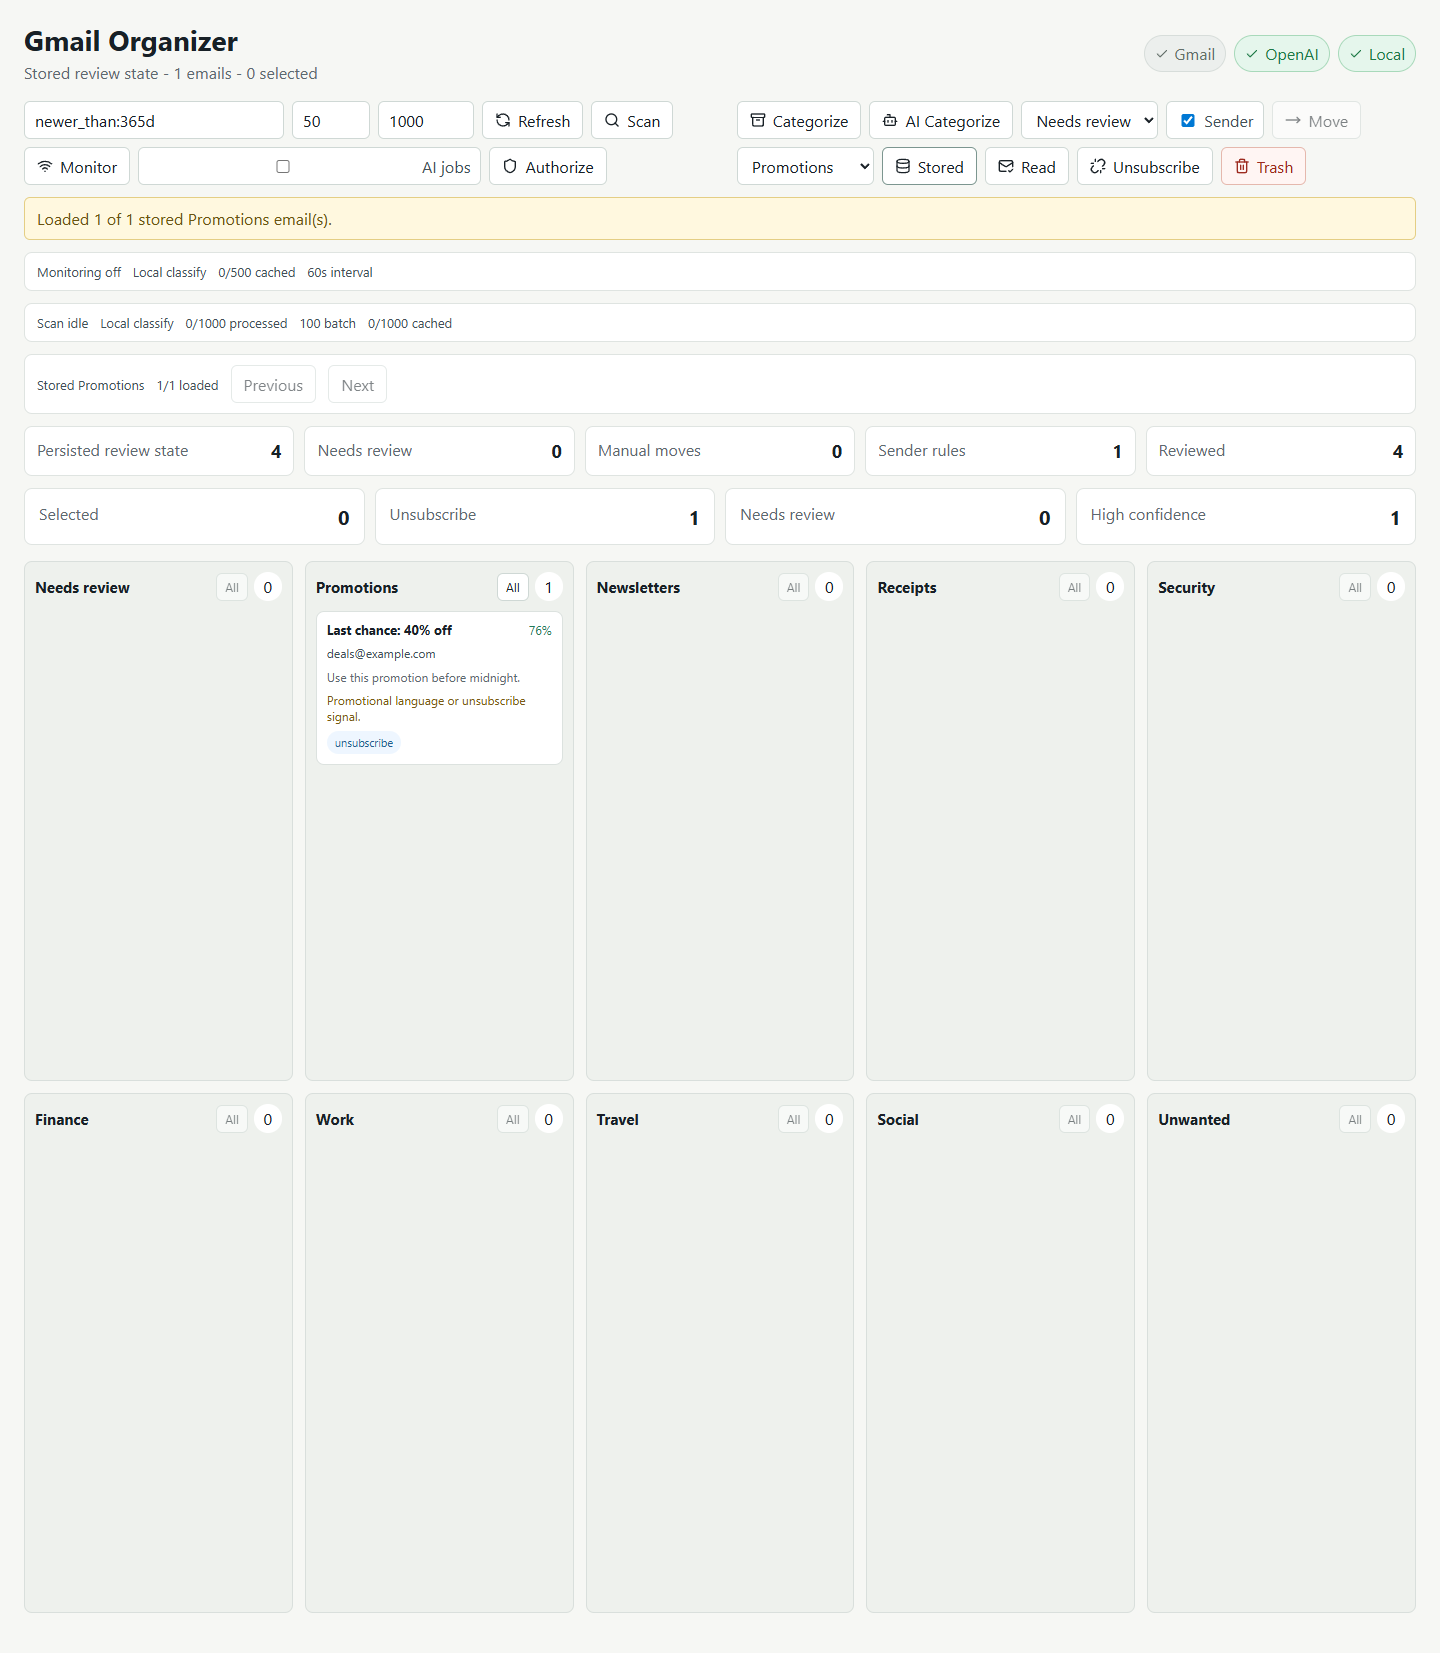
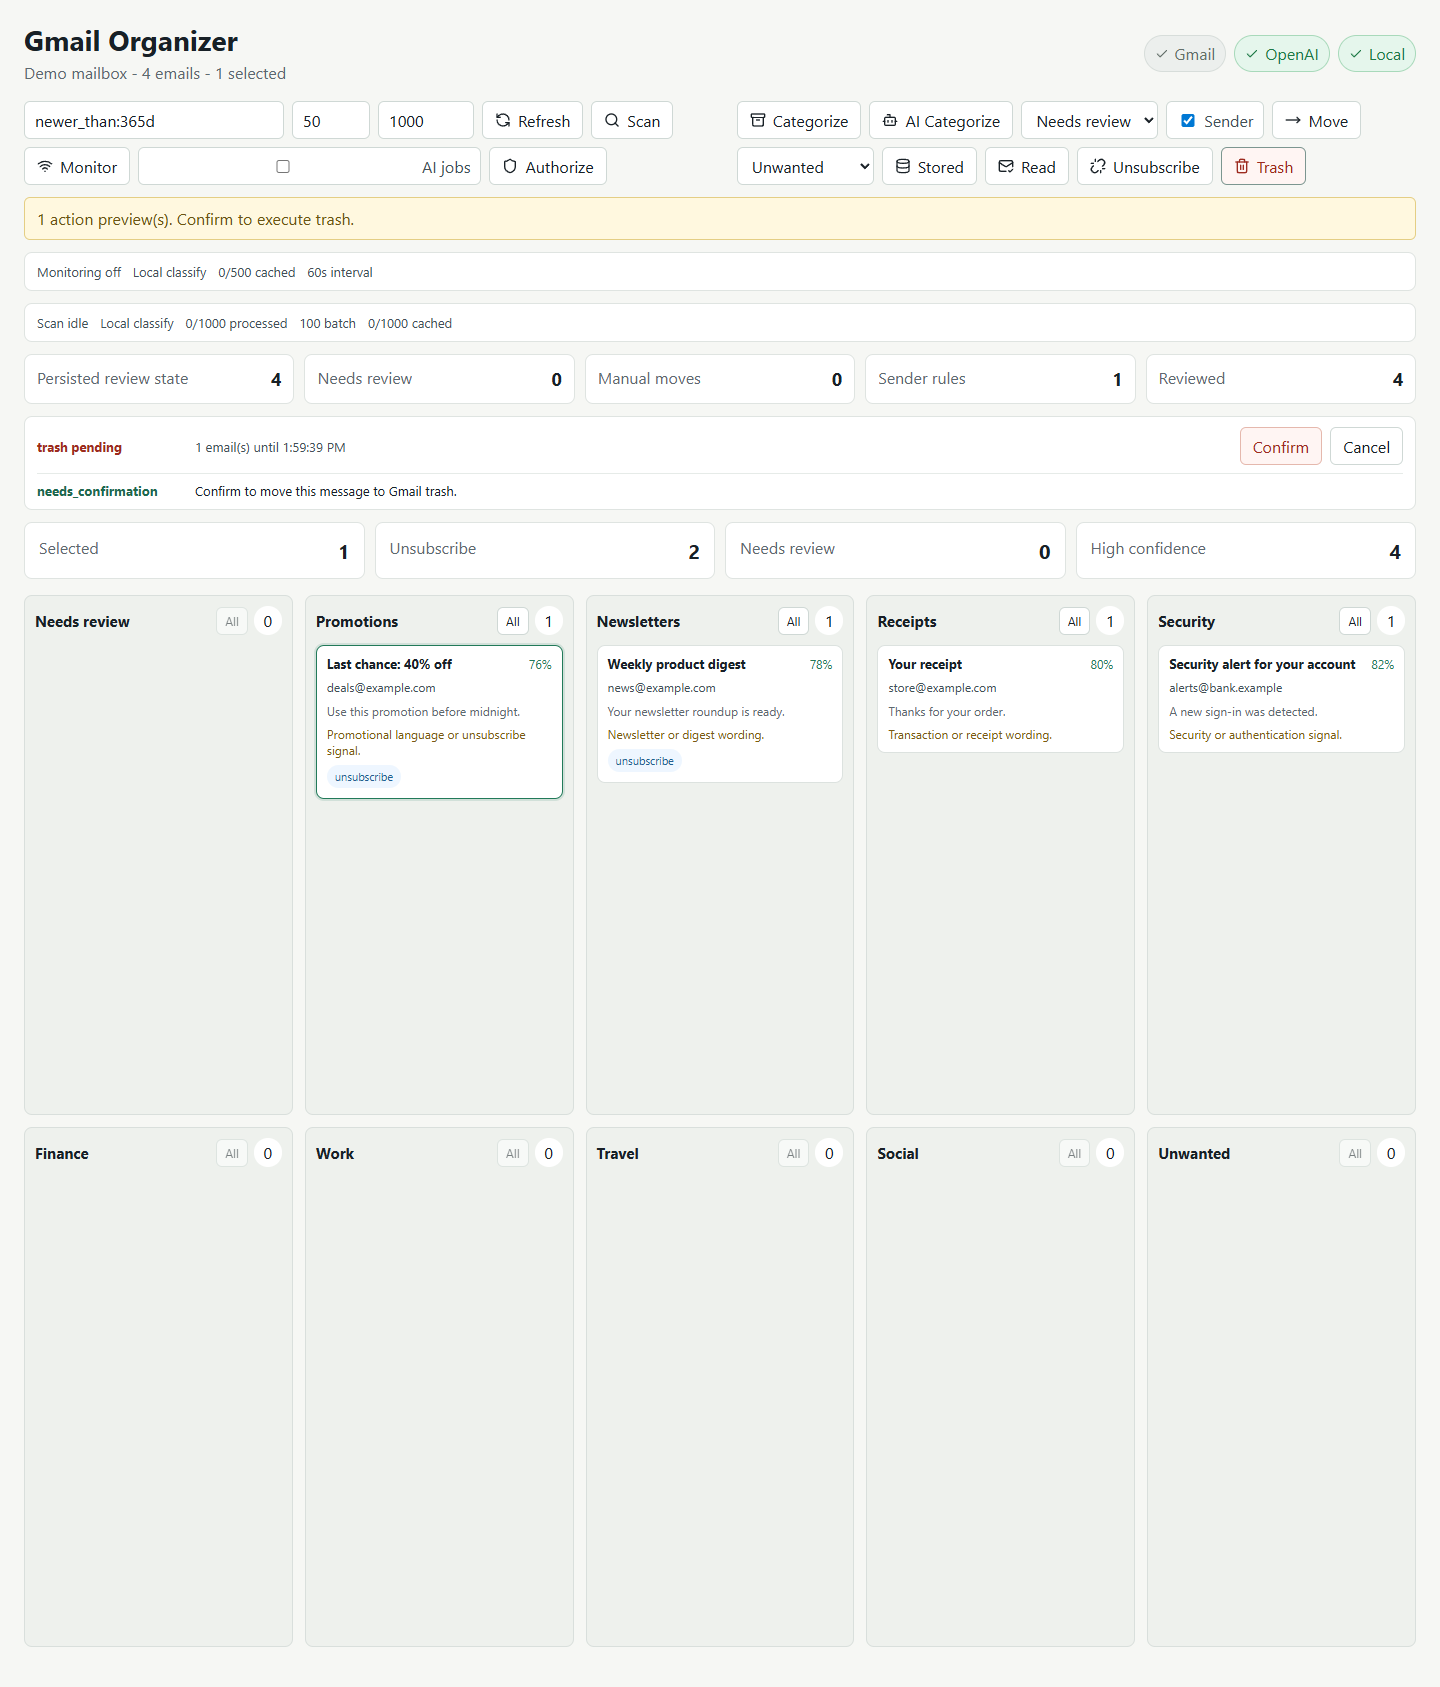
Require tokens for destructive confirmations

diff --git a/web/src/main.tsx b/web/src/main.tsx
@@ -21,6 +21,8 @@ const categories: { id: Category; label: string }[] = [
 type PendingAction = {
   action: "trash" | "unsubscribe";
   ids: string[];
+  confirmationToken: string;
+  confirmationExpiresAt?: string;
 };
 
 function App() {
@@ -206,10 +208,13 @@ function App() {
     setPendingAction(null);
     setBusy(true);
     try {
-      const result = await runAction(action, ids, action === "mark_read");
+      const result = await runAction(action, ids);
       setActionResults(result.results);
       if (result.requiresConfirmation && (action === "trash" || action === "unsubscribe")) {
-        setPendingAction({ action, ids });
+        if (!result.confirmationToken) {
+          throw new Error("Server did not return a confirmation token.");
+        }
+        setPendingAction({ action, ids, confirmationToken: result.confirmationToken, confirmationExpiresAt: result.confirmationExpiresAt });
         setNotice(`${result.results.length} action preview(s). Confirm to execute ${actionLabel(action)}.`);
       } else {
         finishAction(action, result.results);
@@ -227,7 +232,7 @@ function App() {
     }
     setBusy(true);
     try {
-      const result = await runAction(pendingAction.action, pendingAction.ids, true);
+      const result = await runAction(pendingAction.action, pendingAction.ids, pendingAction.confirmationToken);
       setActionResults(result.results);
       finishAction(pendingAction.action, result.results);
       setPendingAction(null);
@@ -405,7 +410,7 @@ function App() {
           {pendingAction && (
             <div className="confirm-row">
               <strong>{actionLabel(pendingAction.action)} pending</strong>
-              <span>{pendingAction.ids.length} email(s)</span>
+              <span>{pendingAction.ids.length} email(s){pendingAction.confirmationExpiresAt ? ` until ${new Date(pendingAction.confirmationExpiresAt).toLocaleTimeString()}` : ""}</span>
               <button className="danger" onClick={confirmPendingAction} disabled={busy}>Confirm</button>
               <button onClick={cancelPendingAction} disabled={busy}>Cancel</button>
             </div>

diff --git a/web/src/api.ts b/web/src/api.ts
@@ -1,4 +1,4 @@
-import type { ActionResult, AppConfig, Category, EmailSummary, MonitorStatus, ReviewEmailPage, ReviewStats, ScanStatus } from "./types";
+import type { ActionResponse, AppConfig, Category, EmailSummary, MonitorStatus, ReviewEmailPage, ReviewStats, ScanStatus } from "./types";
 
 async function request<T>(url: string, init?: RequestInit): Promise<T> {
   const response = await fetch(url, {
@@ -36,10 +36,10 @@ export async function updateCategories(ids: string[], category: string, applySen
   });
 }
 
-export async function runAction(action: "trash" | "mark_read" | "unsubscribe", ids: string[], confirm = false) {
-  return request<{ results: ActionResult[]; requiresConfirmation: boolean }>("/api/actions", {
+export async function runAction(action: "trash" | "mark_read" | "unsubscribe", ids: string[], confirmationToken = "") {
+  return request<ActionResponse>("/api/actions", {
     method: "POST",
-    body: JSON.stringify({ action, ids, confirm })
+    body: JSON.stringify({ action, ids, confirmationToken })
   });
 }
 

diff --git a/web/src/types.ts b/web/src/types.ts
@@ -92,3 +92,10 @@ export type ActionResult = {
   message?: string;
   safeLink?: string;
 };
+
+export type ActionResponse = {
+  results: ActionResult[];
+  requiresConfirmation: boolean;
+  confirmationToken?: string;
+  confirmationExpiresAt?: string;
+};

diff --git a/internal/app/server.go b/internal/app/server.go
@@ -27,17 +27,27 @@ import (
 )
 
 type Server struct {
-	cfg        config.Config
-	gmail      *gmail.Service
-	heuristic  classifier.Classifier
-	ai         classifier.Classifier
-	store      *store.ReviewStore
-	monitor    *monitor.Service
-	scan       *scan.Service
-	lastEmails []domain.EmailSummary
-	state      string
-	mu         sync.RWMutex
+	cfg           config.Config
+	gmail         *gmail.Service
+	heuristic     classifier.Classifier
+	ai            classifier.Classifier
+	store         *store.ReviewStore
+	monitor       *monitor.Service
+	scan          *scan.Service
+	lastEmails    []domain.EmailSummary
+	state         string
+	confirmations map[string]pendingConfirmation
+	mu            sync.RWMutex
+	confirmMu     sync.Mutex
 }
+
+type pendingConfirmation struct {
+	Action    domain.BulkAction
+	IDs       []string
+	ExpiresAt time.Time
+}
+
+const confirmationTTL = 10 * time.Minute
 
 func NewServer(cfg config.Config) (*Server, error) {
 	googleSecret := secrets.FileSecret{Path: cfg.GoogleClientSecretFile}
@@ -50,12 +60,13 @@ func NewServer(cfg config.Config) (*Server, error) {
 		return nil, err
 	}
 	server := &Server{
-		cfg:       cfg,
-		gmail:     gmailService,
-		heuristic: classifier.NewHeuristicClassifier(),
-		ai:        classifier.NewOpenAIResponsesClassifier(secrets.FileSecret{Path: cfg.OpenAIKeyFile}, cfg.OpenAIModel),
-		store:     reviewStore,
-		state:     randomState(),
+		cfg:           cfg,
+		gmail:         gmailService,
+		heuristic:     classifier.NewHeuristicClassifier(),
+		ai:            classifier.NewOpenAIResponsesClassifier(secrets.FileSecret{Path: cfg.OpenAIKeyFile}, cfg.OpenAIModel),
+		store:         reviewStore,
+		state:         randomState(),
+		confirmations: map[string]pendingConfirmation{},
 	}
 	server.monitor = monitor.NewService(server.fetchAndClassify, time.Duration(cfg.MonitorInterval)*time.Second, cfg.MonitorCacheLimit)
 	server.scan = scan.NewService(server.fetchPageAndClassify, server.store.SaveClassifications, cfg.ScanCacheLimit)
@@ -183,9 +194,9 @@ func (s *Server) handleCategoryUpdate(w http.ResponseWriter, r *http.Request) {
 
 func (s *Server) handleAction(w http.ResponseWriter, r *http.Request) {
 	var payload struct {
-		Action  domain.BulkAction `json:"action"`
-		IDs     []string          `json:"ids"`
-		Confirm bool              `json:"confirm"`
+		Action            domain.BulkAction `json:"action"`
+		IDs               []string          `json:"ids"`
+		ConfirmationToken string            `json:"confirmationToken"`
 	}
 	if err := json.NewDecoder(http.MaxBytesReader(w, r.Body, 1<<20)).Decode(&payload); err != nil {
 		writeError(w, http.StatusBadRequest, "invalid request body")
@@ -200,13 +211,24 @@ func (s *Server) handleAction(w http.ResponseWriter, r *http.Request) {
 		writeError(w, http.StatusBadRequest, "bulk actions are limited to 1000 emails per request")
 		return
 	}
-	if !payload.Confirm && destructiveAction(payload.Action) {
+	if destructiveAction(payload.Action) && payload.ConfirmationToken == "" {
 		results, err := s.previewAction(payload.Action, ids)
 		if err != nil {
 			writeError(w, http.StatusBadRequest, err.Error())
 			return
 		}
-		writeJSON(w, http.StatusOK, map[string]any{"results": results, "requiresConfirmation": requiresConfirmation(results)})
+		requires := requiresConfirmation(results)
+		response := map[string]any{"results": results, "requiresConfirmation": requires}
+		if requires {
+			token, expiresAt := s.createConfirmation(payload.Action, ids)
+			response["confirmationToken"] = token
+			response["confirmationExpiresAt"] = expiresAt
+		}
+		writeJSON(w, http.StatusOK, response)
+		return
+	}
+	if destructiveAction(payload.Action) && !s.consumeConfirmation(payload.ConfirmationToken, payload.Action, ids) {
+		writeError(w, http.StatusBadRequest, "destructive action confirmation is missing, expired, or does not match the preview")
 		return
 	}
 	var (
@@ -468,6 +490,63 @@ func requiresConfirmation(results []domain.ActionResult) bool {
 		}
 	}
 	return false
+}
+
+func (s *Server) createConfirmation(action domain.BulkAction, ids []string) (string, time.Time) {
+	token := randomState()
+	expiresAt := time.Now().UTC().Add(confirmationTTL)
+	s.confirmMu.Lock()
+	defer s.confirmMu.Unlock()
+	if s.confirmations == nil {
+		s.confirmations = map[string]pendingConfirmation{}
+	}
+	s.cleanupConfirmationsLocked(time.Now().UTC())
+	if len(s.confirmations) >= 128 {
+		for key := range s.confirmations {
+			delete(s.confirmations, key)
+			break
+		}
+	}
+	s.confirmations[token] = pendingConfirmation{
+		Action:    action,
+		IDs:       append([]string(nil), ids...),
+		ExpiresAt: expiresAt,
+	}
+	return token, expiresAt
+}
+
+func (s *Server) consumeConfirmation(token string, action domain.BulkAction, ids []string) bool {
+	token = strings.TrimSpace(token)
+	if token == "" {
+		return false
+	}
+	s.confirmMu.Lock()
+	defer s.confirmMu.Unlock()
+	confirmation, ok := s.confirmations[token]
+	if !ok {
+		return false
+	}
+	delete(s.confirmations, token)
+	if time.Now().UTC().After(confirmation.ExpiresAt) {
+		return false
+	}
+	if confirmation.Action != action || len(confirmation.IDs) != len(ids) {
+		return false
+	}
+	for i := range ids {
+		if confirmation.IDs[i] != ids[i] {
+			return false
+		}
+	}
+	return true
+}
+
+func (s *Server) cleanupConfirmationsLocked(now time.Time) {
+	for token, confirmation := range s.confirmations {
+		if now.After(confirmation.ExpiresAt) {
+			delete(s.confirmations, token)
+		}
+	}
 }
 
 func (s *Server) staticHandler() http.Handler {

diff --git a/internal/app/server_test.go b/internal/app/server_test.go
@@ -5,6 +5,7 @@ import (
 	"net/http"
 	"net/http/httptest"
 	"testing"
+	"time"
 
 	"github.com/schulerj89/gmail-organizer/internal/domain"
 )
@@ -76,6 +77,41 @@ func TestNormalizeIDsDeduplicatesAndSkipsBlanks(t *testing.T) {
 	got := normalizeIDs([]string{" a ", "", "a", "b"})
 	if len(got) != 2 || got[0] != "a" || got[1] != "b" {
 		t.Fatalf("unexpected ids: %#v", got)
+	}
+}
+
+func TestConfirmationTokenMatchesActionAndIDsOnce(t *testing.T) {
+	server := &Server{}
+	token, expiresAt := server.createConfirmation(domain.ActionTrash, []string{"a", "b"})
+	if token == "" || expiresAt.IsZero() {
+		t.Fatalf("expected token and expiry, got token=%q expiry=%v", token, expiresAt)
+	}
+	if server.consumeConfirmation(token, domain.ActionUnsubscribe, []string{"a", "b"}) {
+		t.Fatal("token should not match a different action")
+	}
+	token, _ = server.createConfirmation(domain.ActionTrash, []string{"a", "b"})
+	if server.consumeConfirmation(token, domain.ActionTrash, []string{"b", "a"}) {
+		t.Fatal("token should not match reordered ids")
+	}
+	token, _ = server.createConfirmation(domain.ActionTrash, []string{"a", "b"})
+	if !server.consumeConfirmation(token, domain.ActionTrash, []string{"a", "b"}) {
+		t.Fatal("expected matching token to be consumed")
+	}
+	if server.consumeConfirmation(token, domain.ActionTrash, []string{"a", "b"}) {
+		t.Fatal("token should be single-use")
+	}
+}
+
+func TestConfirmationTokenExpires(t *testing.T) {
+	server := &Server{confirmations: map[string]pendingConfirmation{
+		"expired": {
+			Action:    domain.ActionTrash,
+			IDs:       []string{"a"},
+			ExpiresAt: time.Now().UTC().Add(-time.Minute),
+		},
+	}}
+	if server.consumeConfirmation("expired", domain.ActionTrash, []string{"a"}) {
+		t.Fatal("expired token should not be accepted")
 	}
 }
 

diff --git a/docs/DECISIONS.md b/docs/DECISIONS.md
@@ -20,7 +20,7 @@ Mutating API requests are accepted only from same-host or loopback browser origi
 
 Bulk delete initially maps to Gmail trash. Permanent deletion is intentionally deferred until the review workflow and audit logging are stronger.
 
-Trash actions use a two-step flow: the first request returns a preview, and execution requires a follow-up request with explicit confirmation. This keeps accidental bulk cleanup from happening on a single click while preserving a fast selected-email workflow.
+Trash actions use a two-step flow: the first request returns a preview plus a short-lived server confirmation token, and execution requires a follow-up request with that token. This keeps accidental bulk cleanup from happening on a single click while preserving a fast selected-email workflow.
 
 Mark-read uses Gmail batch modify requests of up to 1000 message IDs. Trash remains per-message because Gmail exposes safe trash semantics per message, while permanent batch delete is intentionally avoided.
 
@@ -44,7 +44,7 @@ The review store also keeps minimal message metadata with each classification so
 
 The app extracts `https://` and `mailto:` List-Unsubscribe targets. It executes only HTTPS one-click unsubscribe requests when Gmail provides `List-Unsubscribe-Post: List-Unsubscribe=One-Click`; ordinary HTTPS and `mailto:` targets are prepared as review links. One-click execution rejects local/private literal IP targets and does not follow redirects.
 
-One-click unsubscribe also uses the destructive-action confirmation flow. Preview requests do not contact remote unsubscribe endpoints; confirmed requests execute only the validated one-click targets.
+One-click unsubscribe also uses the destructive-action confirmation token flow. Preview requests do not contact remote unsubscribe endpoints; confirmed requests execute only the validated one-click targets.
 
 ## AI Classification
 

diff --git a/README.md b/README.md
@@ -73,7 +73,7 @@ $env:GMAIL_ORGANIZER_SCAN_CACHE_LIMIT="1000"
 - Mutating API requests with non-local browser origins are blocked.
 - Email listing fetches metadata headers and snippets, not full message bodies.
 - Bulk delete uses Gmail trash, not immediate permanent deletion.
-- Trash and one-click unsubscribe actions return a preview first and require an explicit confirm request before execution.
+- Trash and one-click unsubscribe actions return a preview first and require a short-lived server-issued confirmation token before execution.
 - Unsubscribe actions execute only standards-based HTTPS one-click requests; ordinary HTTPS and `mailto:` unsubscribe targets are prepared as review links.
 - API responses include secret file paths and existence status only, never secret contents.
 - Background monitoring keeps a bounded in-memory cache and uses metadata/snippets rather than full message bodies.

diff --git a/docs/CONTEXT.md b/docs/CONTEXT.md
@@ -16,7 +16,7 @@ Build a secure, memory-efficient Gmail AI organizer that categorizes emails, mon
 - Unsubscribe action executes only one-click HTTPS unsubscribe headers; other targets are surfaced as review links in the dashboard.
 - Backend scan service pages through Gmail metadata, classifies and persists each batch, and exposes `/api/scan`.
 - Scan and monitor can opt into AI classification; backend AI calls are chunked with heuristic fallback.
-- Trash and one-click unsubscribe actions now preview first and require explicit confirmation before execution.
+- Trash and one-click unsubscribe actions now preview first and require a short-lived server confirmation token before execution.
 - Stored category pages can be loaded from persisted review state for later bulk cleanup beyond the bounded scan cache.
 - Mark-read uses Gmail batch modify requests to reduce API calls during large cleanup selections.
 - Action audit reads support bounded large JSONL entries for 1000-message cleanup results.